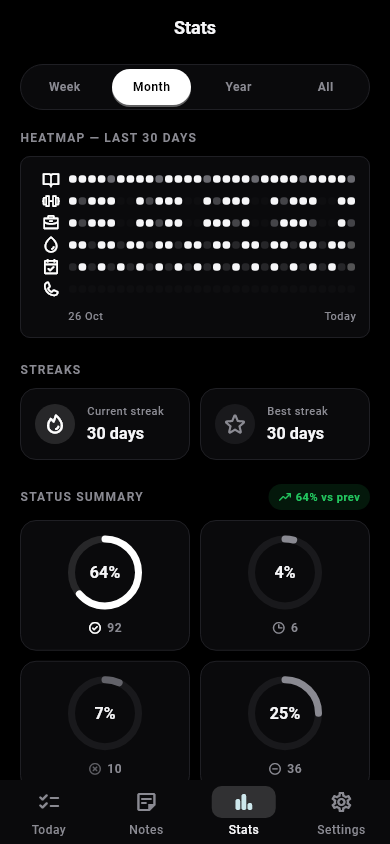
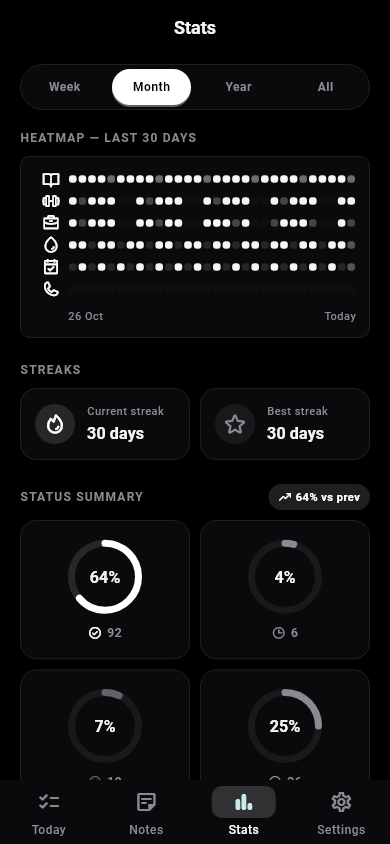
Bugfix pass for final: Digital theme in deed history/notes/delta chips, safer summary card ratio, v1.5.0

diff --git a/lib/features/deeds/deed_detail_screen.dart b/lib/features/deeds/deed_detail_screen.dart
@@ -3,6 +3,7 @@ import 'package:go_router/go_router.dart';
 import 'package:intl/intl.dart';
 import 'package:material_ui/material_ui.dart';
 
+import '../../core/theme/app_theme.dart';
 import '../../core/utils/icons.dart';
 import '../../data/db/app_database.dart' as db;
 import '../../data/providers.dart';
@@ -18,6 +19,7 @@ class DeedDetailScreen extends ConsumerWidget {
   @override
   Widget build(BuildContext context, WidgetRef ref) {
     final theme = Theme.of(context);
+    final digital = context.appStyle.isDigital;
     final repository = ref.read(repositoryProvider);
     final deedFuture = repository.deedById(deedId);
     final categoriesAsync = ref.watch(categoriesProvider);
@@ -91,9 +93,17 @@ class DeedDetailScreen extends ConsumerWidget {
                           width: 52,
                           height: 52,
                           decoration: BoxDecoration(
-                            color: colorFromHex(category?.color ?? '#1B6CFF')
-                                .withValues(alpha: 0.12),
-                            shape: BoxShape.circle,
+                            color: (digital
+                                    ? theme.colorScheme.primary
+                                    : colorFromHex(
+                                        category?.color ?? '#1B6CFF'))
+                                .withValues(alpha: digital ? 0.10 : 0.12),
+                            shape: digital
+                                ? BoxShape.rectangle
+                                : BoxShape.circle,
+                            borderRadius: digital
+                                ? BorderRadius.circular(12)
+                                : null,
                           ),
                           child: Icon(
                             iconForDeed(
@@ -101,7 +111,10 @@ class DeedDetailScreen extends ConsumerWidget {
                               categoryIcon: category?.icon,
                               name: deed.name,
                             ),
-                            color: colorFromHex(category?.color ?? '#1B6CFF'),
+                            color: digital
+                                ? theme.colorScheme.primary
+                                : colorFromHex(
+                                    category?.color ?? '#1B6CFF'),
                             size: 28,
                           ),
                         ),
@@ -152,15 +165,23 @@ class DeedDetailScreen extends ConsumerWidget {
                         _MiniStat(
                             label: 'Done',
                             value: '${stats.done}',
-                            color: const Color(0xFF22C55E)),
+                            color: digital
+                                ? theme.colorScheme.onSurface
+                                : const Color(0xFF22C55E)),
                         _MiniStat(
                             label: 'Late',
                             value: '${stats.late}',
-                            color: const Color(0xFFF59E0B)),
+                            color: digital
+                                ? theme.colorScheme.onSurfaceVariant
+                                    .withValues(alpha: 0.75)
+                                : const Color(0xFFF59E0B)),
                         _MiniStat(
                             label: 'Skipped',
                             value: '${stats.skipped}',
-                            color: const Color(0xFFEF4444)),
+                            color: digital
+                                ? theme.colorScheme.onSurfaceVariant
+                                    .withValues(alpha: 0.45)
+                                : const Color(0xFFEF4444)),
                         _MiniStat(
                             label: 'Missed',
                             value: '${stats.missed}',
@@ -236,10 +257,16 @@ class DeedDetailScreen extends ConsumerWidget {
                                   },
                                   size: 18,
                                   color: switch (LogStatus.fromDb(log.status)) {
-                                    LogStatus.done => const Color(0xFF22C55E),
-                                    LogStatus.late => const Color(0xFFF59E0B),
-                                    LogStatus.skipped =>
-                                      const Color(0xFFEF4444),
+                                    LogStatus.done => digital
+                                        ? theme.colorScheme.onSurface
+                                        : const Color(0xFF22C55E),
+                                    LogStatus.late => digital
+                                        ? theme.colorScheme.onSurfaceVariant
+                                        : const Color(0xFFF59E0B),
+                                    LogStatus.skipped => digital
+                                        ? theme.colorScheme.onSurfaceVariant
+                                            .withValues(alpha: 0.6)
+                                        : const Color(0xFFEF4444),
                                   },
                                 ),
                                 const SizedBox(width: 10),
@@ -275,6 +302,7 @@ class _SingleDeedHeatmap extends StatelessWidget {
   @override
   Widget build(BuildContext context) {
     final theme = Theme.of(context);
+    final digital = context.appStyle.isDigital;
     final index = <String, LogStatus>{
       for (final log in logs)
         '${log.day.year}-${log.day.month}-${log.day.day}':
@@ -294,16 +322,26 @@ class _SingleDeedHeatmap extends StatelessWidget {
             final status = index[key];
             Color? color;
             if (status != null) {
-              color = switch (status) {
-                LogStatus.done => const Color(0xFF22C55E),
-                LogStatus.late => const Color(0xFFF59E0B),
-                LogStatus.skipped => const Color(0xFFEF4444),
-              };
+              if (digital) {
+                color = switch (status) {
+                  LogStatus.done => theme.colorScheme.onSurface,
+                  LogStatus.late => theme.colorScheme.onSurfaceVariant
+                      .withValues(alpha: 0.75),
+                  LogStatus.skipped => theme.colorScheme.onSurfaceVariant
+                      .withValues(alpha: 0.45),
+                };
+              } else {
+                color = switch (status) {
+                  LogStatus.done => const Color(0xFF22C55E),
+                  LogStatus.late => const Color(0xFFF59E0B),
+                  LogStatus.skipped => const Color(0xFFEF4444),
+                };
+              }
             } else if (isScheduledOn(deed, day) &&
                 day.isBefore(today) &&
                 !frequencyOf(deed).isCountBased) {
-              color =
-                  theme.colorScheme.onSurfaceVariant.withValues(alpha: 0.25);
+              color = theme.colorScheme.onSurfaceVariant
+                  .withValues(alpha: digital ? 0.22 : 0.25);
             }
             return Expanded(
               child: Padding(

diff --git a/lib/features/notes/notes_screen.dart b/lib/features/notes/notes_screen.dart
@@ -4,6 +4,7 @@ import 'package:flutter_riverpod/flutter_riverpod.dart';
 import 'package:go_router/go_router.dart';
 import 'package:material_ui/material_ui.dart';
 
+import '../../core/theme/app_theme.dart';
 import '../../core/utils/icons.dart';
 import '../../data/db/app_database.dart' as db;
 import '../../data/providers.dart';
@@ -170,11 +171,18 @@ class _NoteGrid extends StatelessWidget {
       itemBuilder: (context, index) {
         final note = notes[index];
         final accent = colorFromHex(note.color);
+        final digital = context.appStyle.isDigital;
         return Material(
-          color: accent.withValues(alpha: 0.14),
+          color: digital
+              ? theme.cardTheme.color
+              : accent.withValues(alpha: 0.14),
           shape: RoundedRectangleBorder(
             borderRadius: BorderRadius.circular(16),
-            side: BorderSide(color: accent.withValues(alpha: 0.45)),
+            side: BorderSide(
+              color: digital
+                  ? theme.colorScheme.outline
+                  : accent.withValues(alpha: 0.45),
+            ),
           ),
           clipBehavior: Clip.antiAlias,
           child: InkWell(
@@ -187,11 +195,24 @@ class _NoteGrid extends StatelessWidget {
                 children: [
                   Row(
                     children: [
+                      if (digital) ...[
+                        Container(
+                          width: 8,
+                          height: 8,
+                          decoration: BoxDecoration(
+                            color: accent,
+                            borderRadius: BorderRadius.circular(2),
+                          ),
+                        ),
+                        const SizedBox(width: 6),
+                      ],
                       if (note.pinned) ...[
                         Icon(
                           Icons.push_pin_rounded,
                           size: 13,
-                          color: accent,
+                          color: digital
+                              ? theme.colorScheme.primary
+                              : accent,
                         ),
                         const SizedBox(width: 4),
                       ],

diff --git a/lib/features/stats/stats_screen.dart b/lib/features/stats/stats_screen.dart
@@ -58,9 +58,17 @@ class _StatsScreenState extends ConsumerState<StatsScreen> {
     }
     final diff = result.donePct - prev.donePct;
     final up = diff >= 0;
-    final color = diff.abs() < 1
-        ? theme.colorScheme.onSurfaceVariant
-        : (up ? const Color(0xFF22C55E) : const Color(0xFFEF4444));
+    final digital = context.appStyle.isDigital;
+    final Color color;
+    if (diff.abs() < 1) {
+      color = theme.colorScheme.onSurfaceVariant;
+    } else if (digital) {
+      color = up
+          ? theme.colorScheme.primary
+          : theme.colorScheme.onSurfaceVariant.withValues(alpha: 0.7);
+    } else {
+      color = up ? const Color(0xFF22C55E) : const Color(0xFFEF4444);
+    }
     return Container(
       padding: const EdgeInsets.symmetric(horizontal: 10, vertical: 5),
       decoration: BoxDecoration(
@@ -203,7 +211,7 @@ class _StatsScreenState extends ConsumerState<StatsScreen> {
                   physics: const NeverScrollableScrollPhysics(),
                   mainAxisSpacing: 10,
                   crossAxisSpacing: 10,
-                  childAspectRatio: 1.3,
+                  childAspectRatio: 1.22,
                   children: [
                     _RingStat(
                       percent: result.donePct,
